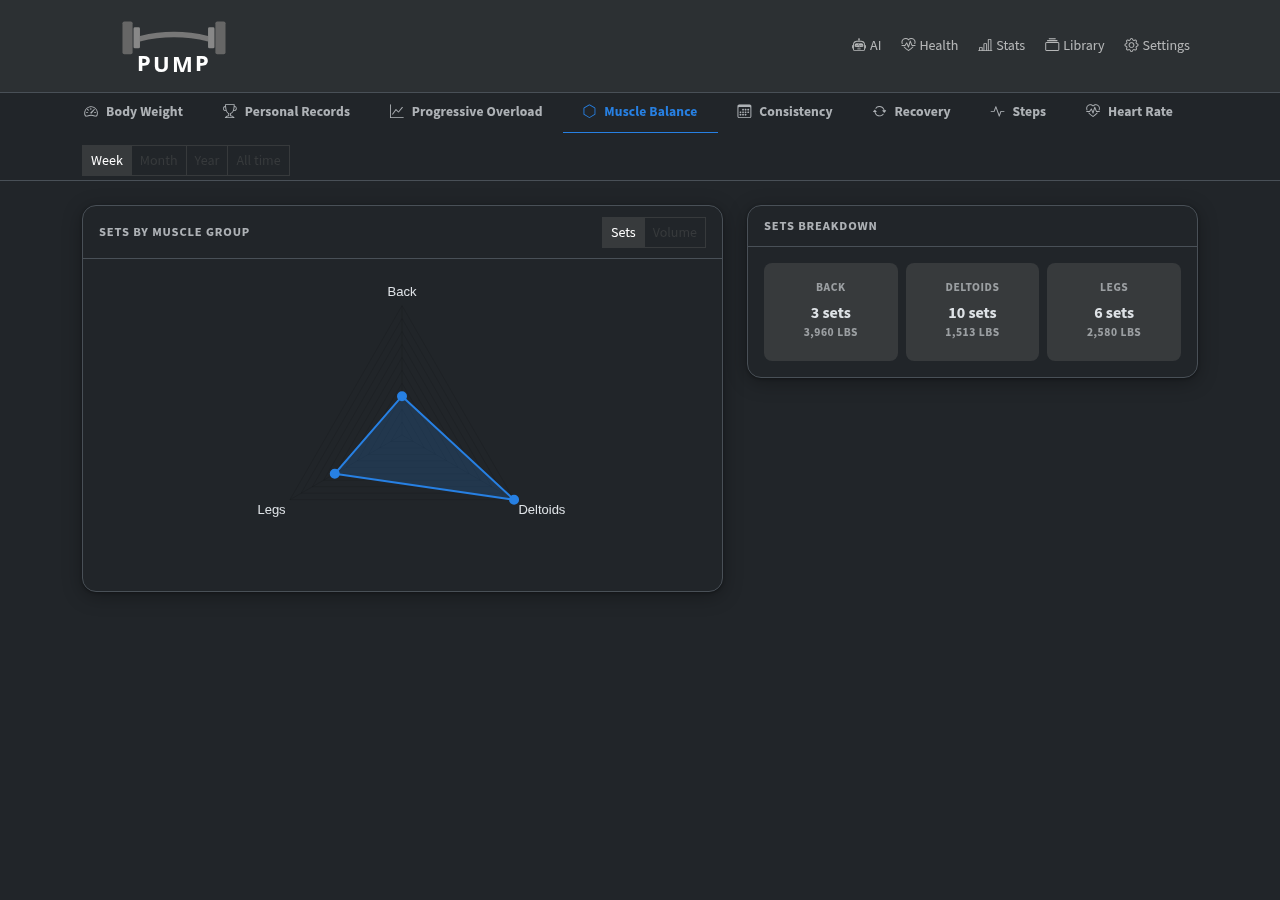
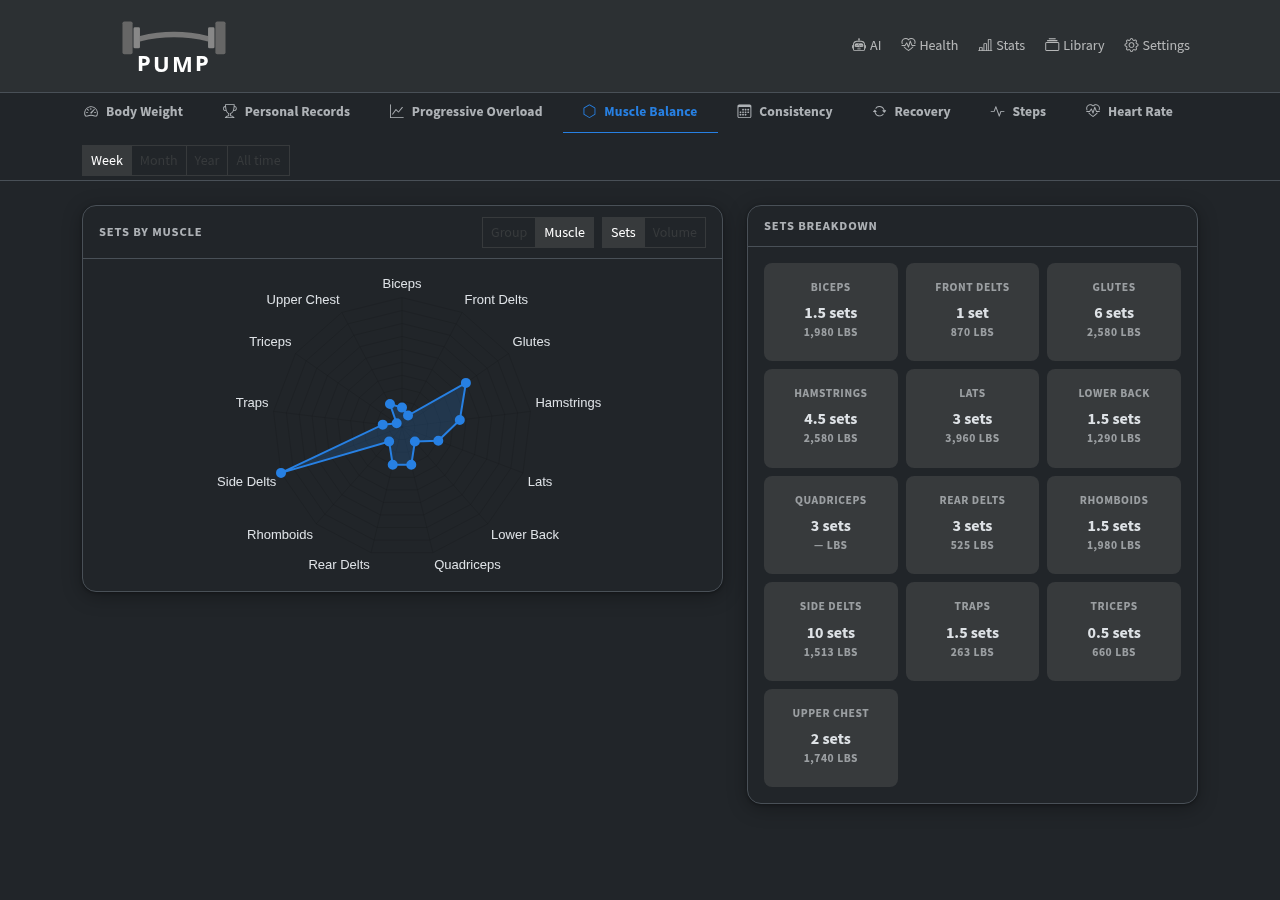
chore(release): screenshots + README for muscle-level Balance and Grip & Hang
- screenshot-stats-balance.png regenerated in Muscle mode (new Group/Muscle
  toggle; per-muscle radar with primary/secondary weighting).
- screenshot-stats-grip.png added — new Grip & Hang tab (grip L/R, dead hang),
  added to the README screenshot table.

Captured at 1280×900 via CDP against a restore of the production DB (grip/hang
seeded locally for the chart, since prod has no readings yet).

diff --git a/README.md b/README.md
@@ -31,6 +31,10 @@
 |---|---|---|
 | ![Stats Progressive Overload](assets/screenshot-stats-overload.png) | ![Stats Consistency](assets/screenshot-stats-consistency.png) | ![Stats Recovery](assets/screenshot-stats-recovery.png) |
 
+| Stats: Grip & Hang — grip strength (left/right) and dead-hang time |
+|---|
+| ![Stats Grip & Hang](assets/screenshot-stats-grip.png) |
+
 - [Architecture](#architecture)
 - [Configuration](#configuration)
 
